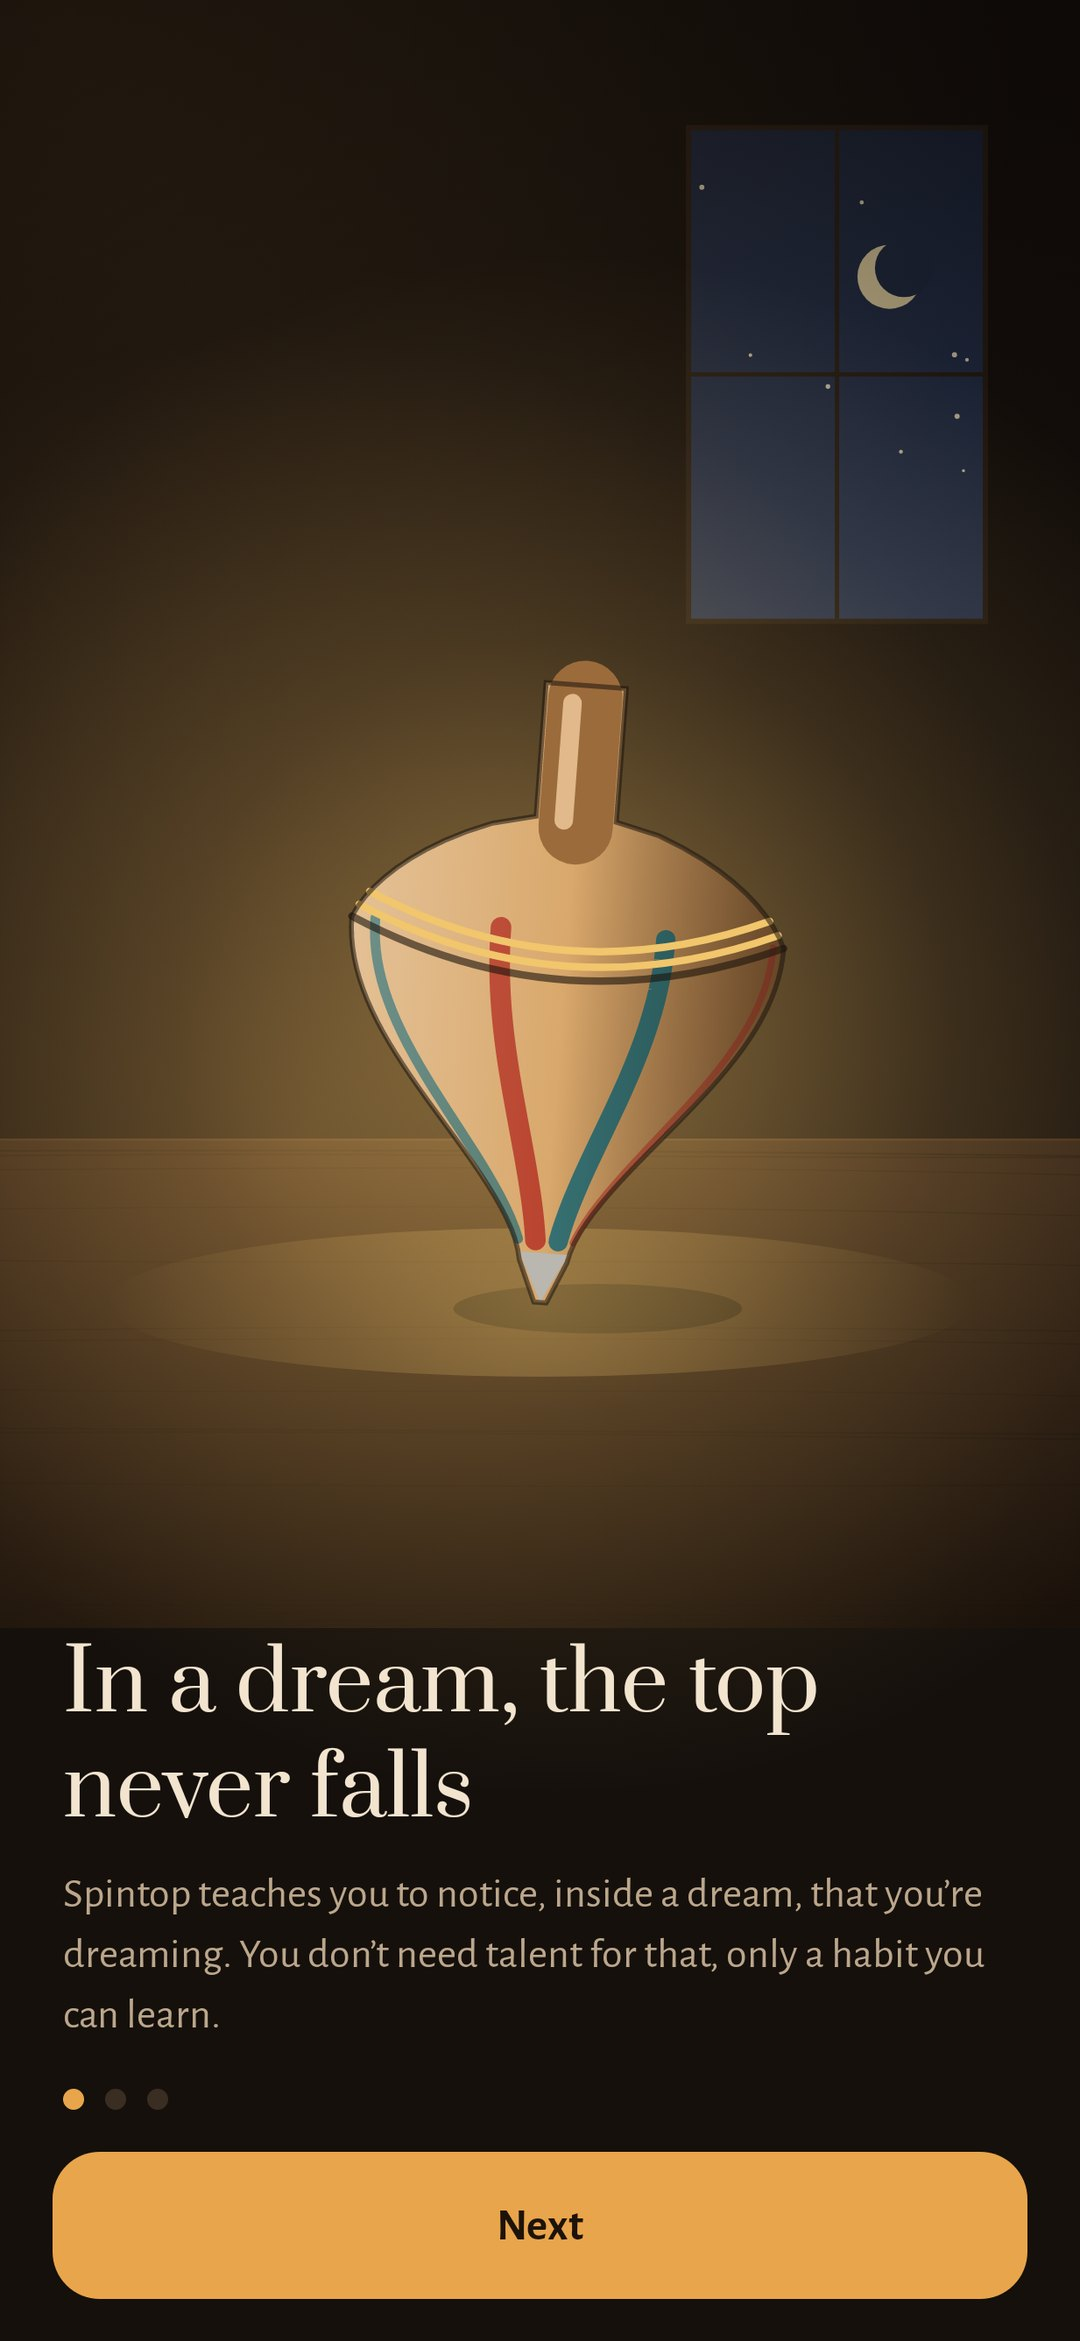
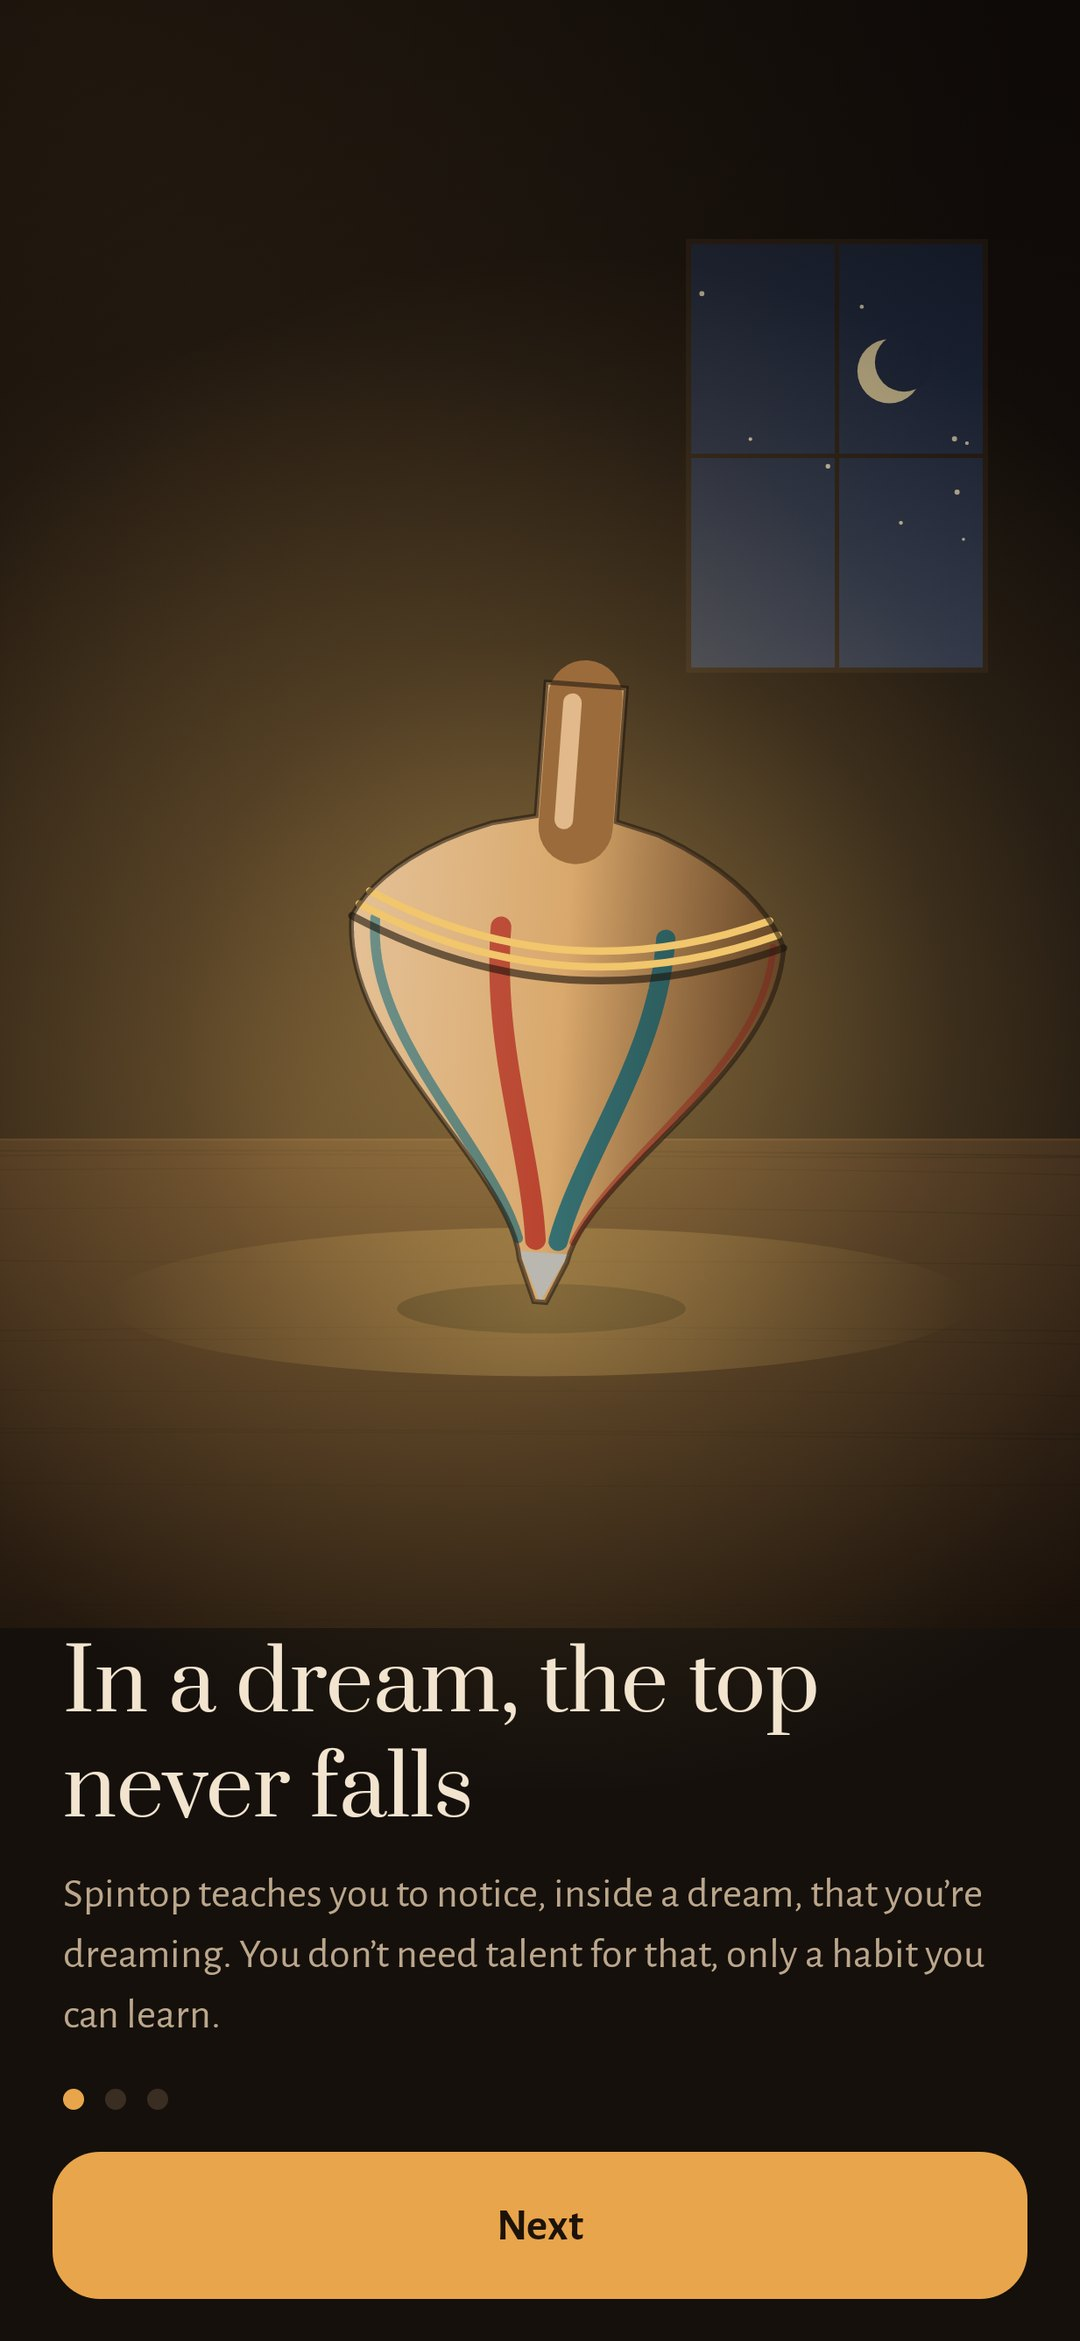
A fallen top rests on the table, its shadow under it; window clear of the toolbar

Changed region(s): [[0.6417, 0.0312, 0.9167, 0.1871], [0.6417, 0.2495, 0.9167, 0.3118]]

diff --git a/app/src/main/java/app/slumber/ui/art/Top.kt b/app/src/main/java/app/slumber/ui/art/Top.kt
@@ -59,9 +59,9 @@ fun DrawScope.desk(cx: Float = 0.5f, table: Float = 0.7f, seed: Int = 3) {
     drawRect(Brush.verticalGradient(listOf(Color(0xFF120D0A), Color(0xFF1F1610)), endY = table * h), size = Size(w, table * h))
     // A window, top right: night blue, a moon, a few stars, the frame's cross.
     val wx0 = w * 0.64f
-    val wy0 = h * 0.08f
+    val wy0 = h * 0.15f
     val ww = w * 0.27f
-    val wh = h * 0.3f
+    val wh = h * 0.26f
     drawRect(Color(0xFF2A1E15), Offset(wx0 - 6f, wy0 - 6f), Size(ww + 12f, wh + 12f))
     drawRect(Brush.verticalGradient(listOf(Color(0xFF1B2741), Color(0xFF2E3D5E)), startY = wy0, endY = wy0 + wh), Offset(wx0, wy0), Size(ww, wh))
     val r = Random(seed)
@@ -96,7 +96,7 @@ fun DrawScope.desk(cx: Float = 0.5f, table: Float = 0.7f, seed: Int = 3) {
 fun DrawScope.top(p: TopPose, cx: Float = 0.5f, cy: Float = 0.8f, tall: Float = 0.38f) {
     val w = size.width
     val h = size.height
-    val pivot = Offset(cx * w, cy * h)
+    var pivot = Offset(cx * w, cy * h)
     val H = tall * h
     val t = Math.toRadians(p.tilt.toDouble()).toFloat()
     // The axis, leaning by tilt toward precession; leaning to or from you foreshortens it a little.
@@ -107,9 +107,16 @@ fun DrawScope.top(p: TopPose, cx: Float = 0.5f, cy: Float = 0.8f, tall: Float = 
     val n = Offset(-a.y, a.x)
     fun at(u: Float, v: Float) = pivot + a * (u * H) + n * (v * H)
 
+    // Leaning far over, it rests on its side: lift it so nothing goes through the table, and bring it
+    // back towards the middle as it lies down.
+    val lowest = (0..20).maxOf { i -> val u = i / 20f; maxOf(at(u, -radius(u)).y, at(u, radius(u)).y) }
+    val lie = ((p.tilt - 25f) / 51f).coerceIn(0f, 1f)
+    pivot += Offset((cx * w - at(0.45f, 0f).x) * lie, -(lowest - pivot.y).coerceAtLeast(0f))
+
     // Shadow on the table, thrown away from the lamp.
     val sw = H * (0.42f + 0.6f * sin(t))
-    drawOval(Color.Black.copy(alpha = 0.45f), Offset(pivot.x - sw * 0.3f, pivot.y - H * 0.03f), Size(sw, H * 0.08f))
+    val under = at(0.4f * sin(t), 0f).x
+    drawOval(Color.Black.copy(alpha = 0.45f), Offset(under - sw / 2, cy * h - H * 0.03f), Size(sw, H * 0.08f))
 
     // The day after a lucid dream: a warm halo, and a ring of light on the table round the tip.
     if (p.glow > 0f) {
